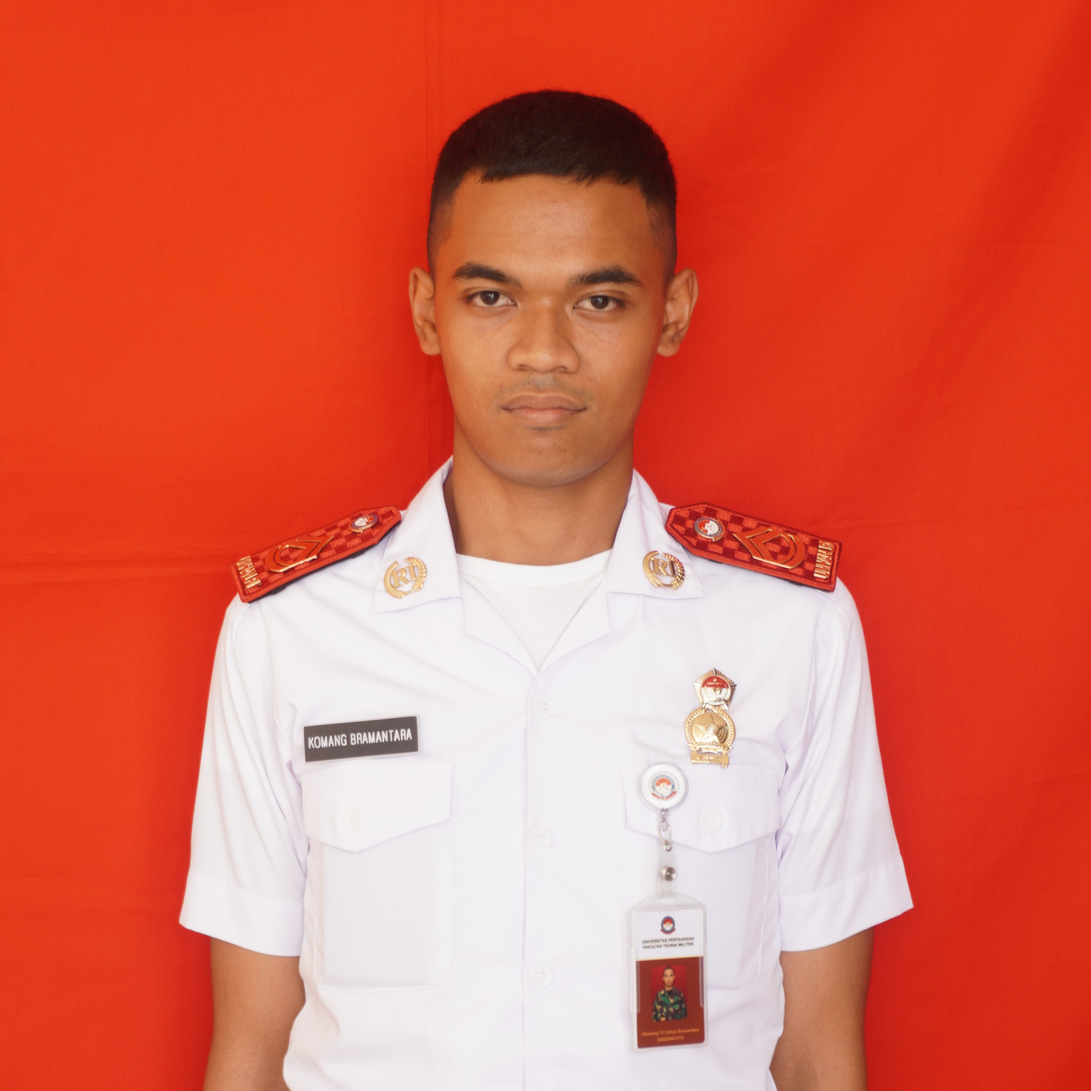
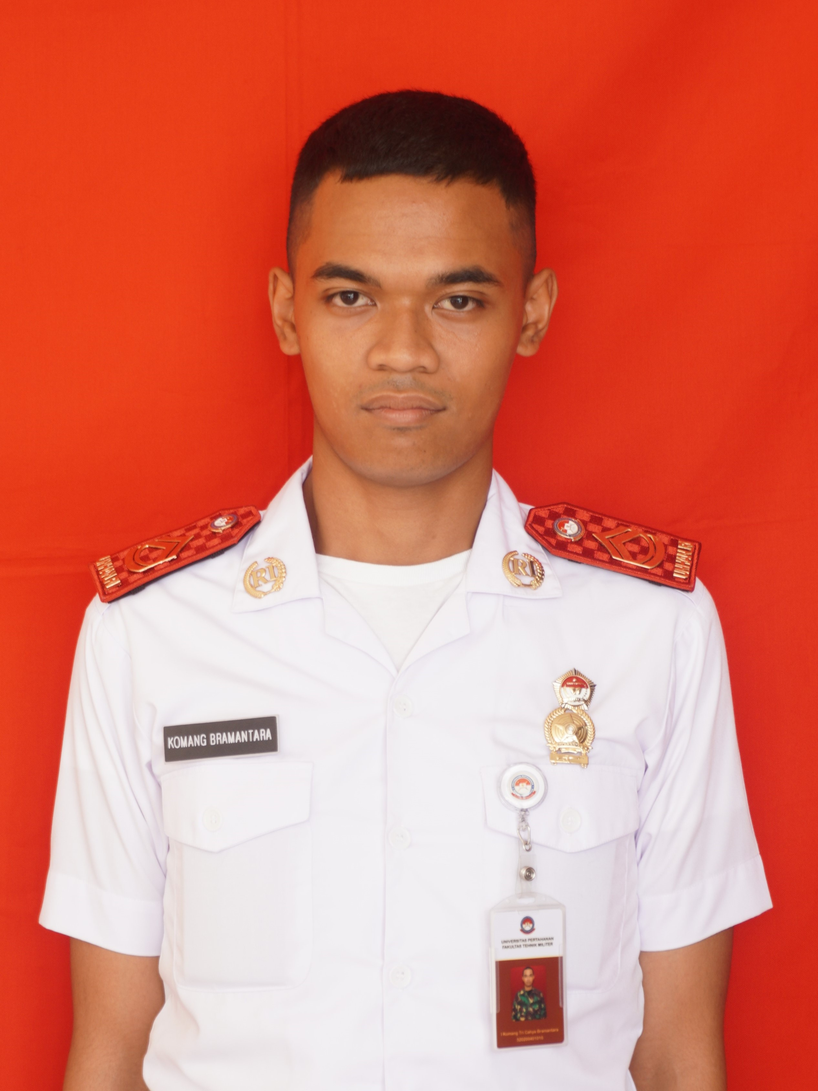
fixed about

diff --git a/src/pages/style.css b/src/pages/style.css
@@ -140,17 +140,17 @@ input{
     margin : 0 auto;
 }
 .komang{
-    width : 340px;
+    height: 350px;
     margin:10px;
     font-size: 20px;
 }
 .rifqi{
-    width : 250px;
+    height: 350px;
     margin:10px;
     font-size: 20px;
 }
 .selvi{
-    width : 190px;
+    height: 350px;
     margin:10px;
     font-size: 20px;
 }
